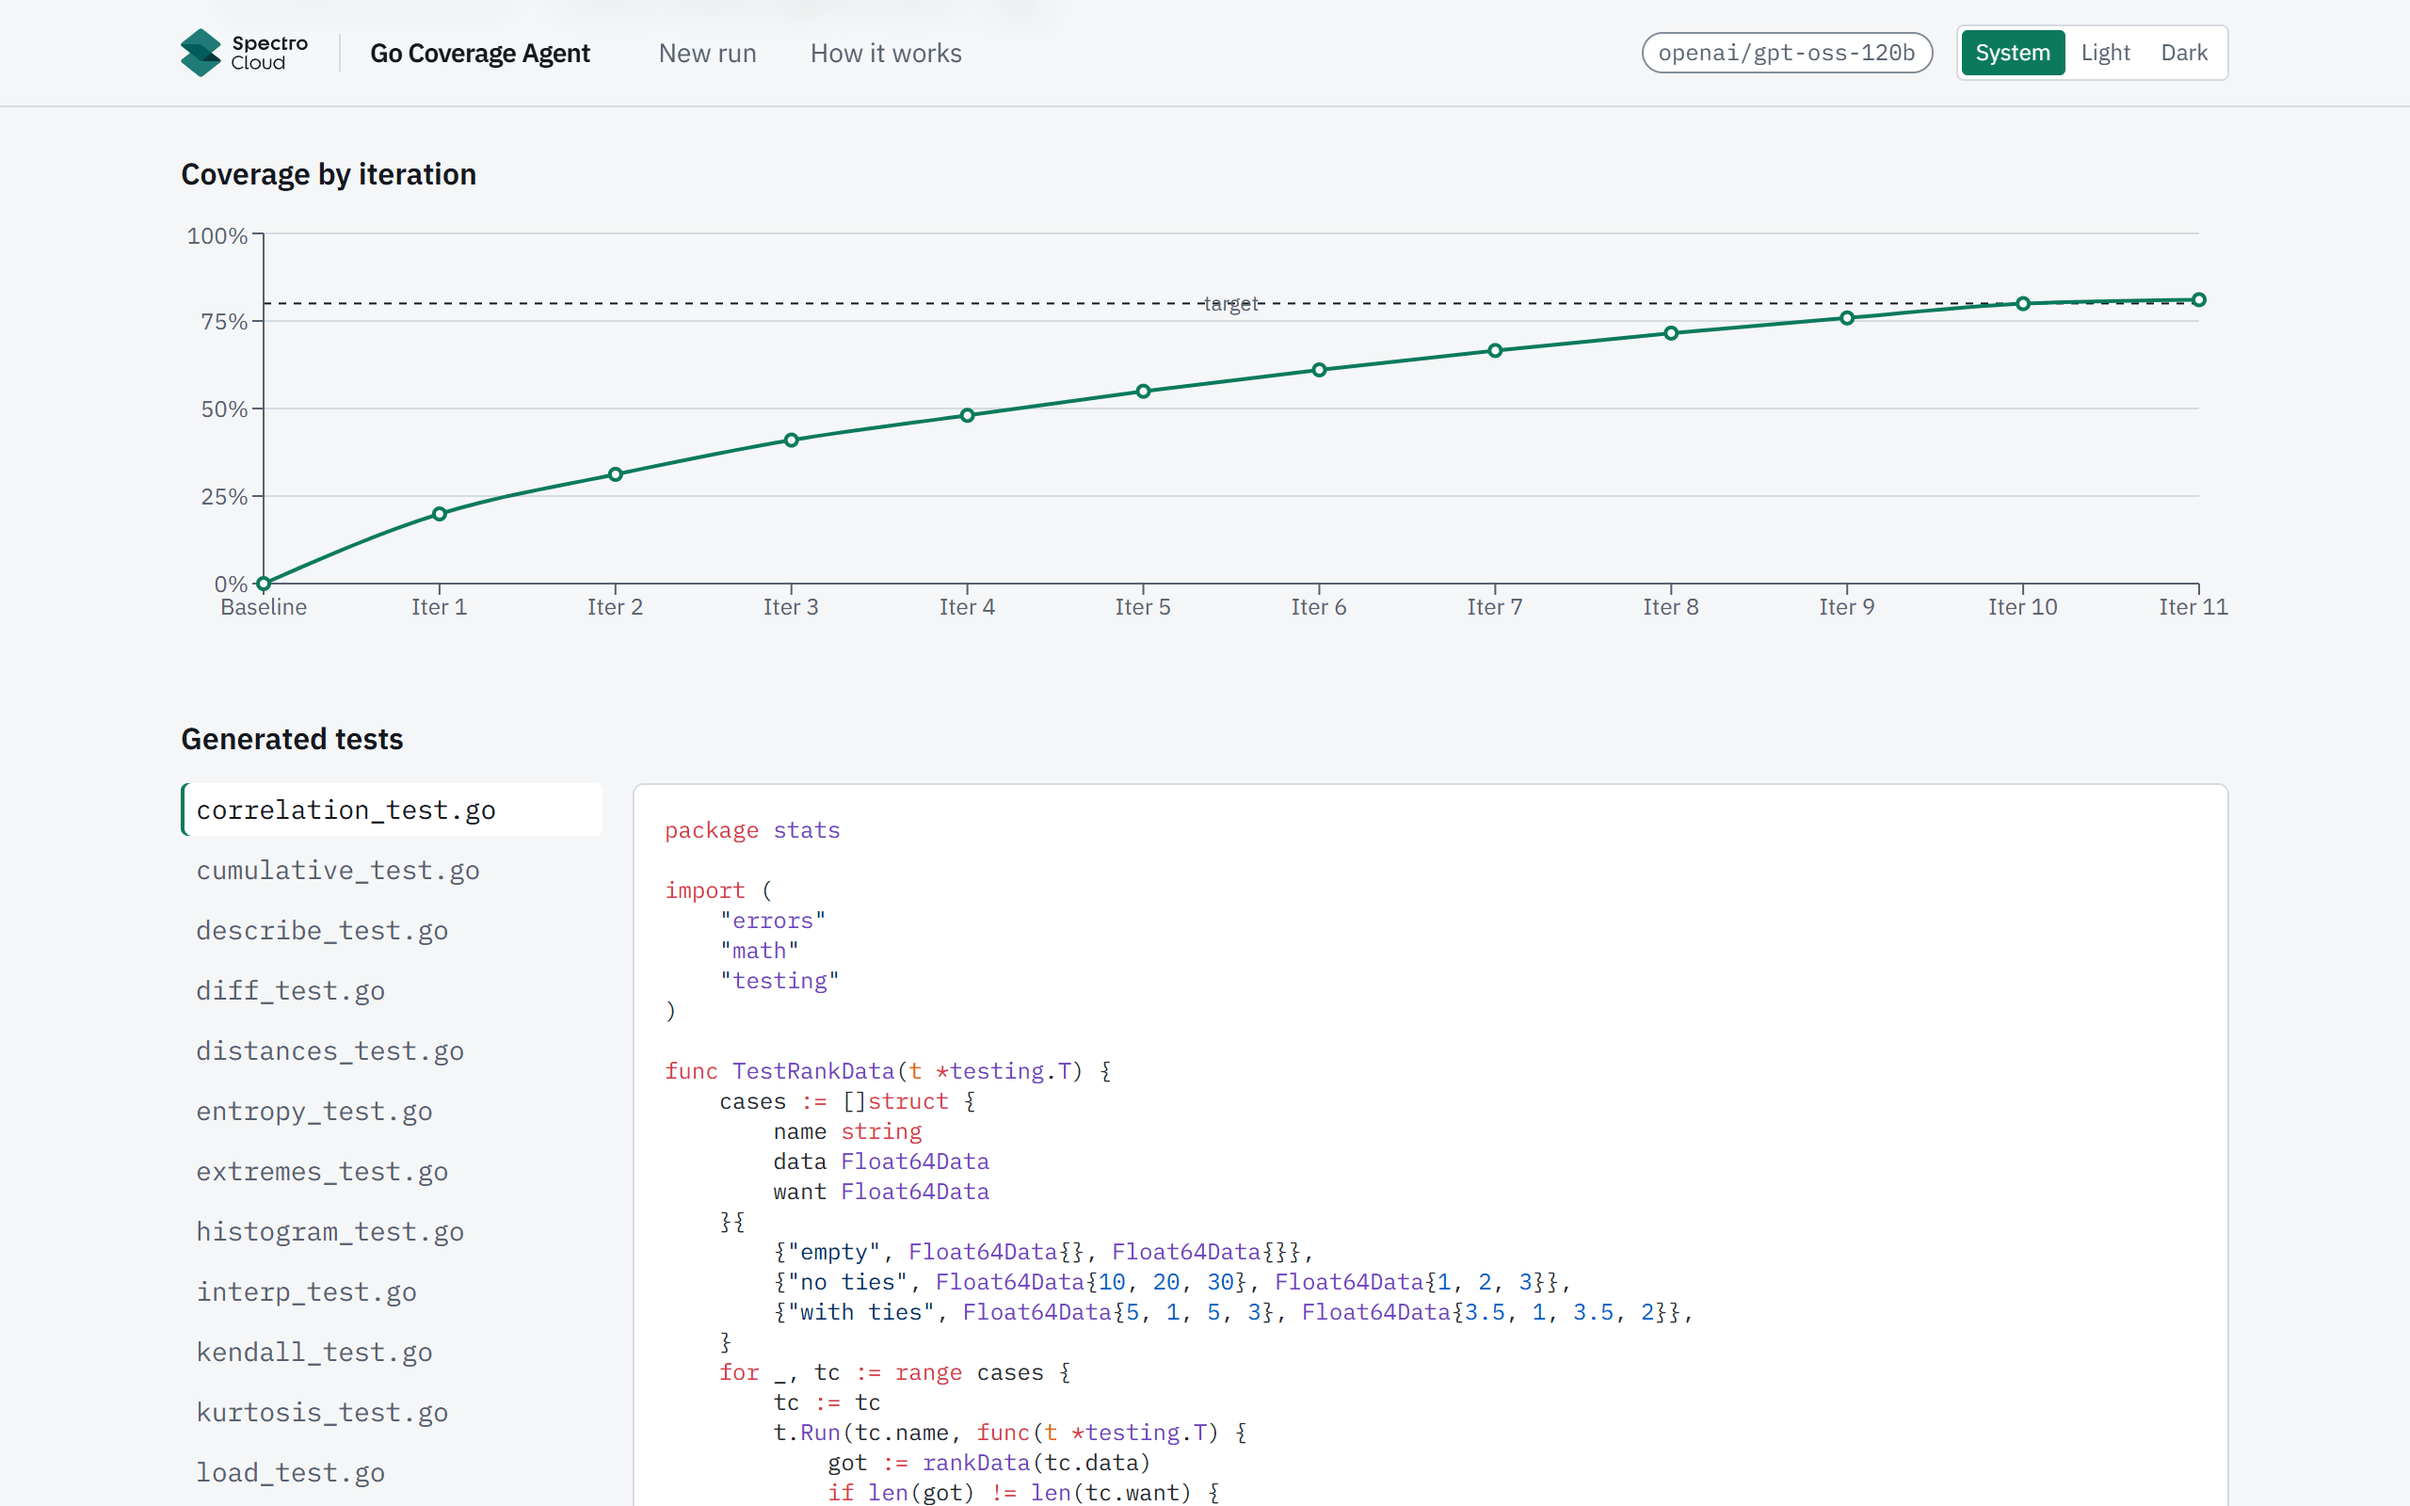
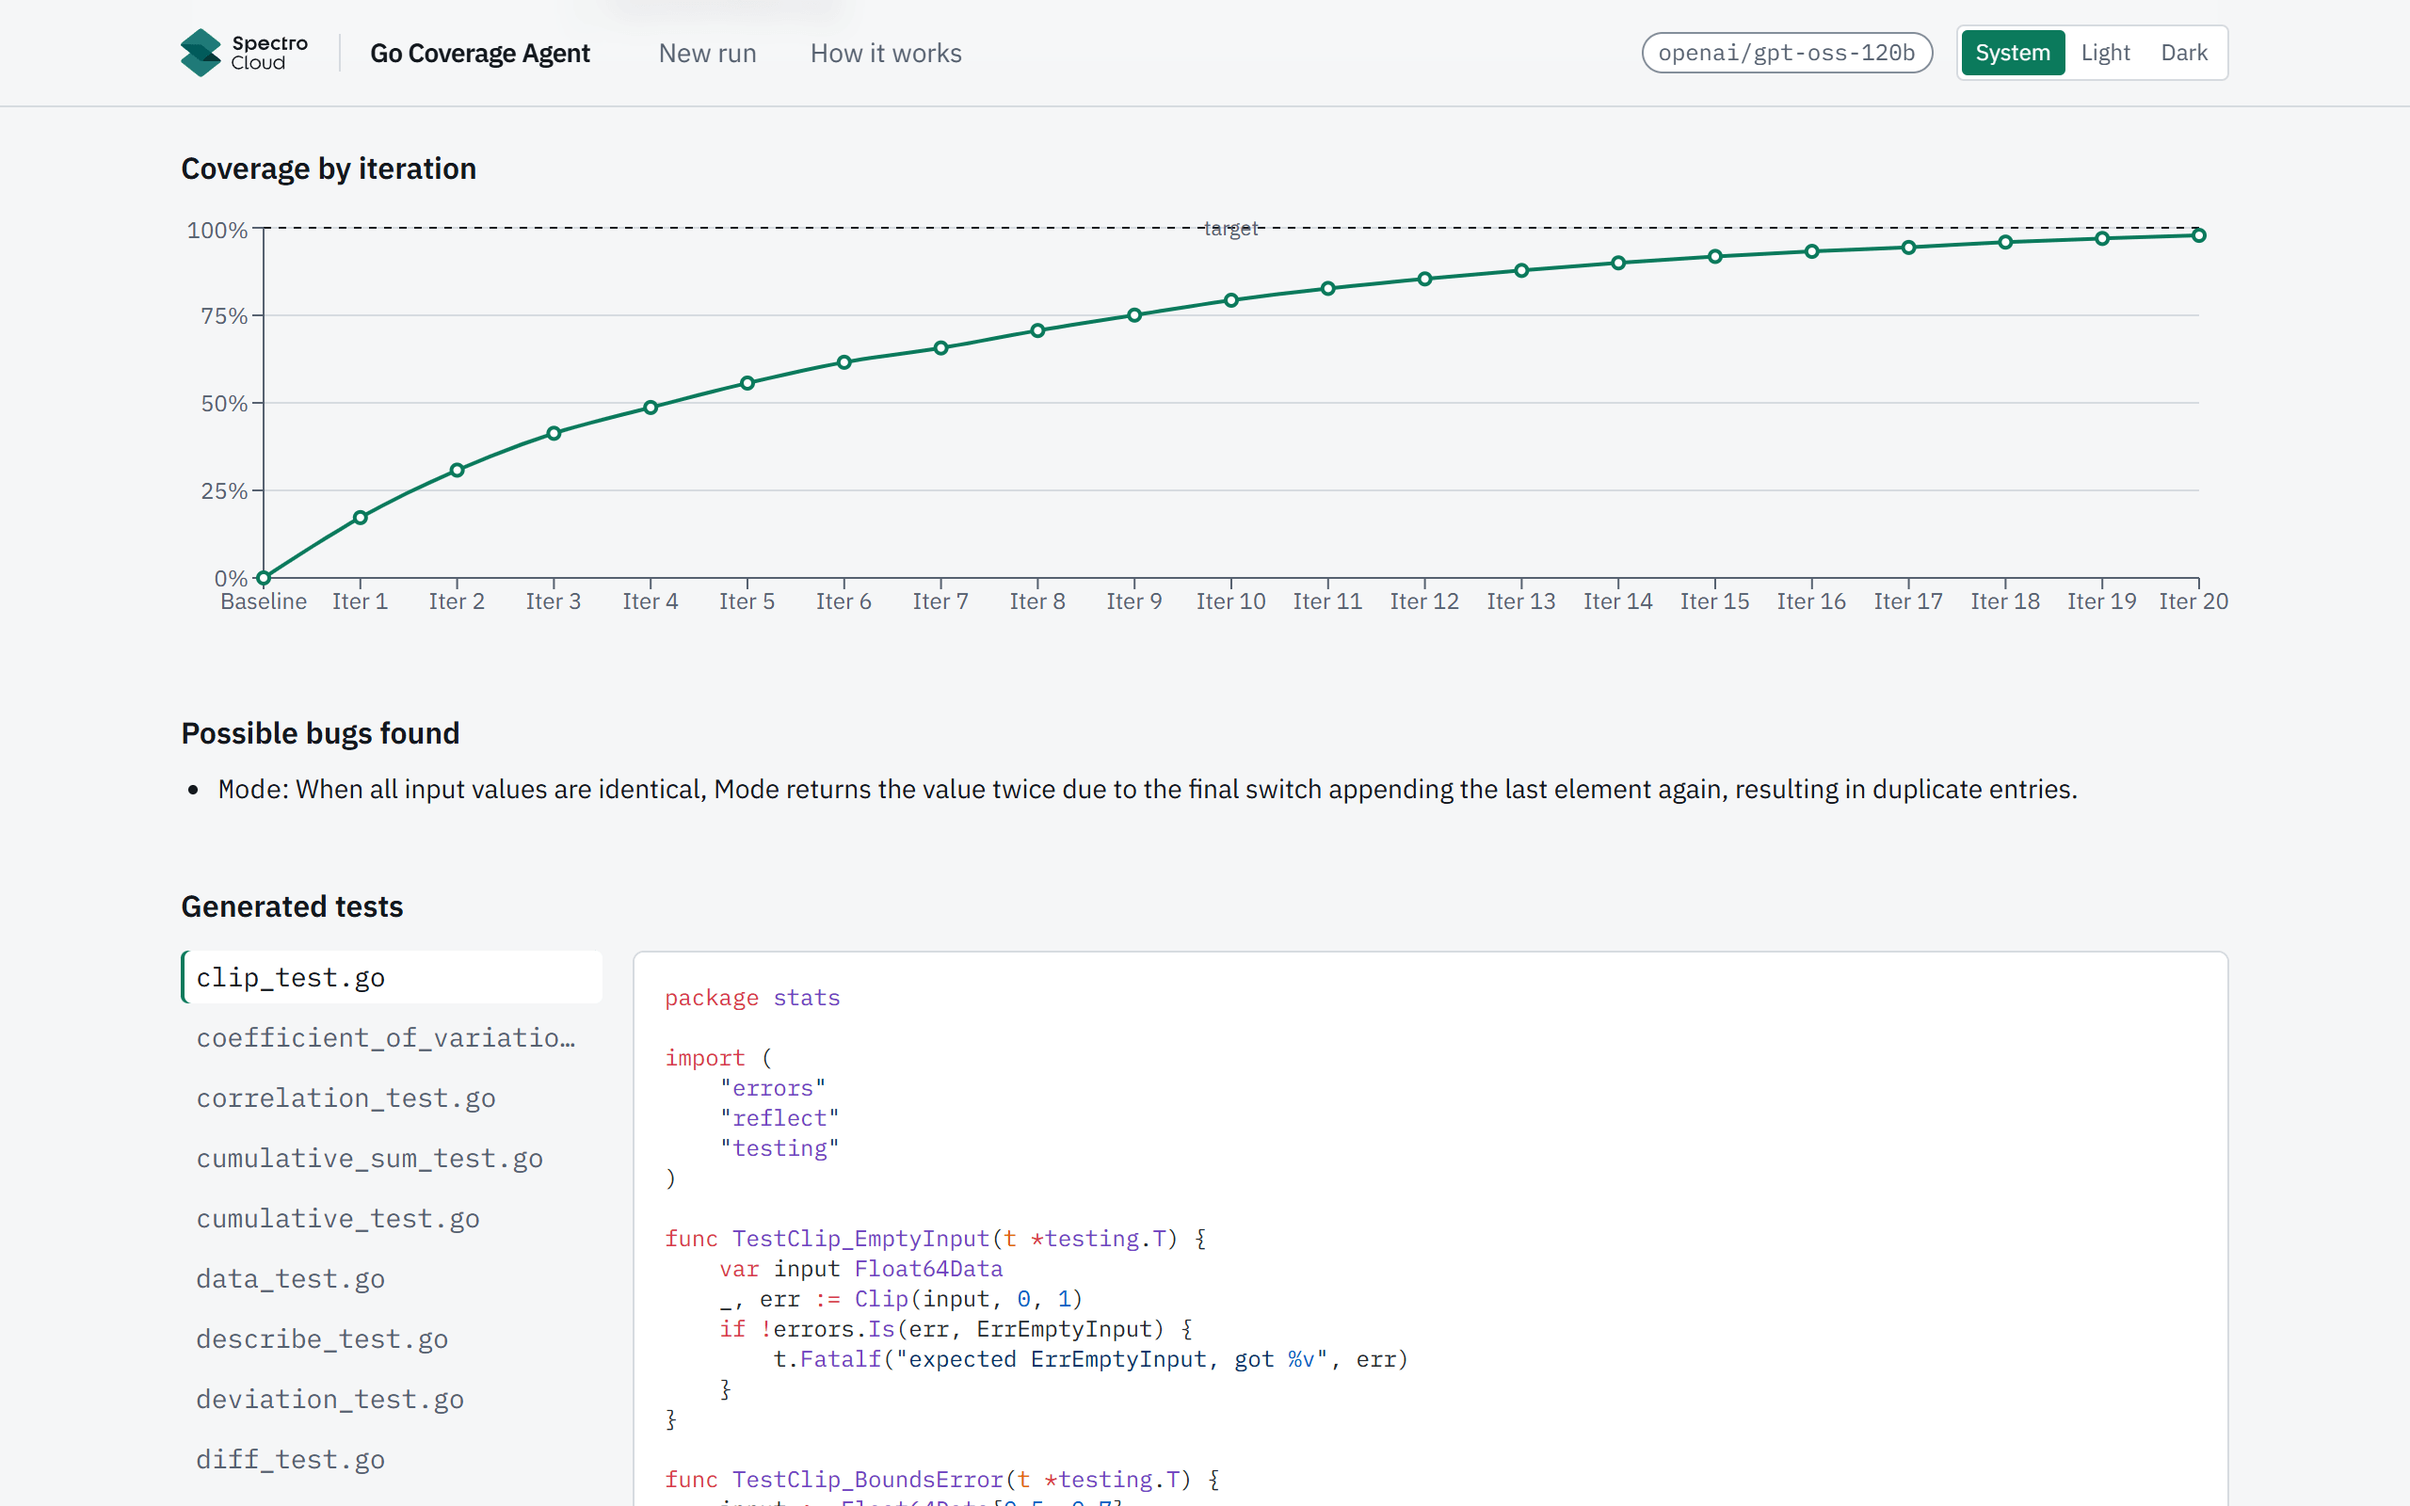
docs: single-user scope note for reviewers; retake every README screenshot
Adds a short Scope callout under the hero (single-user, local, no accounts,
history in ./output, multi-user needs authentication; links Limitations).
Retakes all screenshots from the current build against the app's real
backend (31 saved runs); run pages use run f910d155f3cd and its real Groq
summary. Adds gallery-summary-tech.png (For engineering teams tab) so the
gallery has no empty cell. Captions describe what each image shows.

diff --git a/README.md b/README.md
@@ -6,7 +6,11 @@ An autonomous agent that raises unit-test coverage for Go repositories. Give it 
 percentage. It measures coverage, plans what to test, asks an LLM to write idiomatic Go tests, compiles and runs
 them, keeps only the tests that pass and add coverage, and repeats until it hits the target or gains flatten out.
 
-<a href="docs/screenshots/gallery-summary.png"><img src="docs/screenshots/gallery-summary.png" width="100%" alt="Results page for montanaflynn/stats showing 81.1% coverage against an 80% target and a Target reached summary card"></a>
+<a href="docs/screenshots/gallery-summary.png"><img src="docs/screenshots/gallery-summary.png" width="100%" alt="Run page for montanaflynn/stats (run f910d155f3cd) showing 97.8% coverage against a 100% target, the Iteration limit reached card and the top of the AI summary"></a>
+
+> **Scope, for reviewers.** This is a single-user tool that runs locally with Docker Compose. There are no accounts:
+> whoever opens http://localhost:3000 sees every run. Run history is saved in `./output` and reloads when the app restarts.
+> Supporting several users would need real authentication first; see [Limitations](#limitations).
 
 ## Quick start
 
@@ -179,12 +183,12 @@ I ran the system end to end, spotted these problems, and decided the fixes. Clau
 <table>
 <tr>
 <td valign="top" width="50%">
-<a href="docs/screenshots/gallery-setup.png"><img src="docs/screenshots/gallery-setup.png" width="100%" alt="New run page at step 1 of the wizard: the header, the four-step stepper, the Sample repos tab with montanaflynn/stats selected, and the Run history panel"></a>
-<br><b>New run, step 1</b><br>The header, a chart of a measured run (0% to 100% in 22 rounds), and the wizard on step 1 of 4: the stepper above the six sample repos (<code>montanaflynn/stats</code> selected), beside the Run history panel with three past runs.
+<a href="docs/screenshots/gallery-setup.png"><img src="docs/screenshots/gallery-setup.png" width="100%" alt="New run page at step 1 of the wizard: the header, the four-step stepper, the Sample repos tab with montanaflynn/stats selected, and the Run history panel listing 31 runs"></a>
+<br><b>New run, step 1</b><br>The header, a chart of a measured run (0% to 100% in 22 rounds), and the wizard on step 1 of 4: the stepper above the six sample repos (<code>montanaflynn/stats</code> selected), beside Run history with all 31 saved runs, newest first (stats 0.0% to 97.8% against a 100% target).
 </td>
 <td valign="top" width="50%">
 <a href="docs/screenshots/gallery-runs-dark.png"><img src="docs/screenshots/gallery-runs-dark.png" width="100%" alt="The review step of the New run wizard and the Run history panel in the dark theme"></a>
-<br><b>Review &amp; start, dark theme</b><br>Step 4 of 4: the chosen repository, the 80% target and default advanced options with the AI summary on, each with an Edit link, then Start with the token budget beside it. Run history shows stats 0.0% to 81.1%, semver 1.4% to 83.5% and stats 0.0% to 100.0%.
+<br><b>Review &amp; start, dark theme</b><br>Step 4 of 4: <code>stats</code> (58 source files), the 80% target and default advanced options with the AI summary on, each with an Edit link, then Start beside "About 5.0M tokens left today". Run history lists the newest saved runs: stats 97.8%, stats 48.7%, humanize 82.1%, semver 83.3%, xstrings 83.7%, …
 </td>
 </tr>
 <tr>
@@ -193,36 +197,39 @@ I ran the system end to end, spotted these problems, and decided the fixes. Clau
 <br><b>Your folders</b><br>Step 1 on the Your folders tab, after uploading a local copy of <code>montanaflynn/stats</code>: "Uploaded stats (118 Go files). Skipped: 29 files in .git, 8 hidden files.", with <code>uploads/stats</code> selected under Go modules in <code>./repos</code> and the one-line <code>HOST_REPOS_DIR</code> note below it. The upload selects the folder; Next moves on.
 </td>
 <td valign="top" width="50%">
-<a href="docs/screenshots/gallery-live.png"><img src="docs/screenshots/gallery-live.png" width="100%" alt="Run in progress at 19.9 percent with a Cancel button and the Activity list ending in a running item"></a>
-<br><b>Run in progress</b><br>Iteration 2 of a stats run at 19.9% against the 80% target, with a Cancel button, the status "Compiling and running tests for ttest.go…" and <code>ttest.go</code> Running in the Activity list.
+<a href="docs/screenshots/gallery-live.png"><img src="docs/screenshots/gallery-live.png" width="100%" alt="Run in progress at 17.2 percent with a Cancel button and the Activity list ending in a running item"></a>
+<br><b>Run in progress</b><br>Iteration 2 of stats run <code>f910d155f3cd</code> at 17.2% against its 100% target, with a Cancel button, the status "Compiling and running tests for ttest.go…", iteration 1's three accepted files and <code>ttest.go</code> Running in the Activity list.
 </td>
 </tr>
 <tr>
 <td valign="top" width="50%">
-<a href="docs/screenshots/gallery-chart.png"><img src="docs/screenshots/gallery-chart.png" width="100%" alt="Line chart of coverage after each of 11 iterations rising past the dashed 80 percent target line"></a>
-<br><b>Coverage by iteration</b><br>Coverage after each of the 11 iterations, rising from the 0% baseline to 81.1% and ending just above the dashed 80% target line.
+<a href="docs/screenshots/gallery-chart.png"><img src="docs/screenshots/gallery-chart.png" width="100%" alt="Line chart of coverage after each of 20 iterations rising towards the dashed 100 percent target line, with the Possible bugs found list below it"></a>
+<br><b>Coverage by iteration</b><br>Run <code>f910d155f3cd</code>: coverage after each of its 20 iterations, rising from the 0% baseline to 97.8%, just under the dashed 100% target line. Below it, the one possible bug the run reported (Mode returns duplicate entries when all values are identical).
 </td>
 <td valign="top" width="50%">
-<a href="docs/screenshots/gallery-trace.png"><img src="docs/screenshots/gallery-trace.png" width="100%" alt="Expanded Activity item for ttest.go with two numbered attempts: one failing test, then the failing test removed and the rest passing"></a>
-<br><b>Attempt trace, expanded</b><br><code>ttest.go</code> in iteration 2: ① written by the LLM, 1 of 5 tests failed (with the failing assertion); ② the failing test removed, 4 kept, passed. Result: accepted at attempt 2, +2.7 pp.
+<a href="docs/screenshots/gallery-trace.png"><img src="docs/screenshots/gallery-trace.png" width="100%" alt="Expanded Activity item for histogram.go with three numbered attempts: rejected by the safety guard, one failing test after the LLM fix, then the failing test removed and the rest passing"></a>
+<br><b>Attempt trace, expanded</b><br><code>histogram.go</code> in iteration 7: ① written by the LLM, rejected by the safety guard (a malformed import path); ② rewritten by the LLM fixer, 1 of 5 tests failed (<code>counts[4] = 2, want 1</code>); ③ the failing test removed, 4 kept, passed. Result: accepted at attempt 3, +1.8 pp (61.6% to 63.4%).
 </td>
 </tr>
 <tr>
 <td valign="top" width="50%">
-<a href="docs/screenshots/gallery-testfile.png"><img src="docs/screenshots/gallery-testfile.png" width="100%" alt="Generated tests section with correlation_test.go selected and highlighted Go code"></a>
-<br><b>Generated tests</b><br>Each of the 29 accepted test files can be read with syntax-highlighted Go, here <code>correlation_test.go</code>.
+<a href="docs/screenshots/gallery-testfile.png"><img src="docs/screenshots/gallery-testfile.png" width="100%" alt="Generated tests section with clip_test.go selected and highlighted Go code"></a>
+<br><b>Generated tests</b><br>Each of the run's 48 accepted test files can be read with syntax-highlighted Go, here <code>clip_test.go</code>.
 </td>
 <td valign="top" width="50%">
-<a href="docs/screenshots/gallery-dark.png"><img src="docs/screenshots/gallery-dark.png" width="100%" alt="Target reached summary card and the AI summary below it, on the For stakeholders tab, in the dark theme"></a>
-<br><b>Run page, dark theme</b><br>The Target reached card (0.0% to 81.1%, 109 tests in 29 files, 5m 10s, 175.0k tokens) and, below it, the AI summary on its For stakeholders tab with the run / summary / total cost line, in the dark theme.
+<a href="docs/screenshots/gallery-dark.png"><img src="docs/screenshots/gallery-dark.png" width="100%" alt="Iteration limit reached summary card and the AI summary below it, on the For stakeholders tab, in the dark theme"></a>
+<br><b>Run page, dark theme</b><br>The Iteration limit reached card (0.0% to 97.8%, 206 tests in 48 files, 7m 53s, 337.7k tokens) and, below it, the AI summary on its For stakeholders tab with the run / summary / total cost line.
 </td>
 </tr>
 <tr>
 <td valign="top" width="50%">
-<a href="docs/screenshots/gallery-summary-ai.png"><img src="docs/screenshots/gallery-summary-ai.png" width="100%" alt="The Summary section of a finished stats run on the For stakeholders tab: a headline about coverage rising from 0% to 81.1%, then Outcome, Efficiency with an estimated cost, Risks and Recommendation, with Copy as Markdown and Write again buttons"></a>
-<br><b>AI summary</b><br>Under the summary card, two tabs: For stakeholders (shown: outcome, efficiency with the cost line "Run cost $0.0674 · summary $0.0013 · total $0.0688", risks, recommendation) and For engineering teams (what was tested, where the tests are, how to run them, gaps, suspected bugs, next steps), with Copy as Markdown (the same text as <code>SUMMARY.md</code>) and Write again. No Groq call was made for this screenshot: the text was written by hand from run <code>e2de1ca387cb</code>'s facts, and a backend test checks that it passes the same grounding check as a real summary.
+<a href="docs/screenshots/gallery-summary-ai.png"><img src="docs/screenshots/gallery-summary-ai.png" width="100%" alt="The Summary section of run f910d155f3cd on the For stakeholders tab: a headline about coverage rising from 0.0% to 97.83%, then Outcome, Efficiency with an estimated cost, Risks and Recommendation, with Copy as Markdown and Write again buttons"></a>
+<br><b>AI summary, for stakeholders</b><br>The real summary Groq (<code>openai/gpt-oss-120b</code>) wrote when run <code>f910d155f3cd</code> finished: outcome, efficiency with the cost line "Run cost $0.1247 · summary $0.0020 · total $0.1268", risks (including the suspected Mode bug) and a recommendation. Copy as Markdown gives the same text as <code>SUMMARY.md</code>; Write again asks for a new one.
 </td>
-<td valign="top" width="50%"></td>
+<td valign="top" width="50%">
+<a href="docs/screenshots/gallery-summary-tech.png"><img src="docs/screenshots/gallery-summary-tech.png" width="100%" alt="The same Summary section on the For engineering teams tab: what was tested, where the tests live, how to run them, and a table of the files with uncovered statements"></a>
+<br><b>AI summary, for engineering teams</b><br>The other tab of the same real summary: what was tested, where the tests live (<code>output/f910d155f3cd/tests</code>), how to run them with <code>go test ./...</code> and <code>go test -cover ./...</code>, and the gaps, starting with <code>errors.go</code> (2 uncovered statements) and <code>data.go</code> (12).
+</td>
 </tr>
 <tr>
 <td valign="top" width="50%">
@@ -244,7 +251,7 @@ I ran the system end to end, spotted these problems, and decided the fixes. Clau
 </td>
 <td valign="top" width="33%">
 <a href="docs/screenshots/gallery-mobile.png"><img src="docs/screenshots/gallery-mobile.png" width="100%" alt="Run page on a 390 pixel wide phone screen"></a>
-<br><b>Run page on a phone</b><br>The 81.1% meter, the summary card in two columns, and the top of the AI summary. The header total (179.5k tokens) includes the summary call.
+<br><b>Run page on a phone</b><br>Run <code>f910d155f3cd</code>: the 97.8% meter, the summary card in two columns, and the top of the AI summary. The header total (344.5k tokens) includes the summary call.
 </td>
 <td valign="top" width="33%">
 <a href="docs/screenshots/gallery-howitworks-mobile.png"><img src="docs/screenshots/gallery-howitworks-mobile.png" width="100%" alt="How it works page on a 390 pixel wide phone screen"></a>
